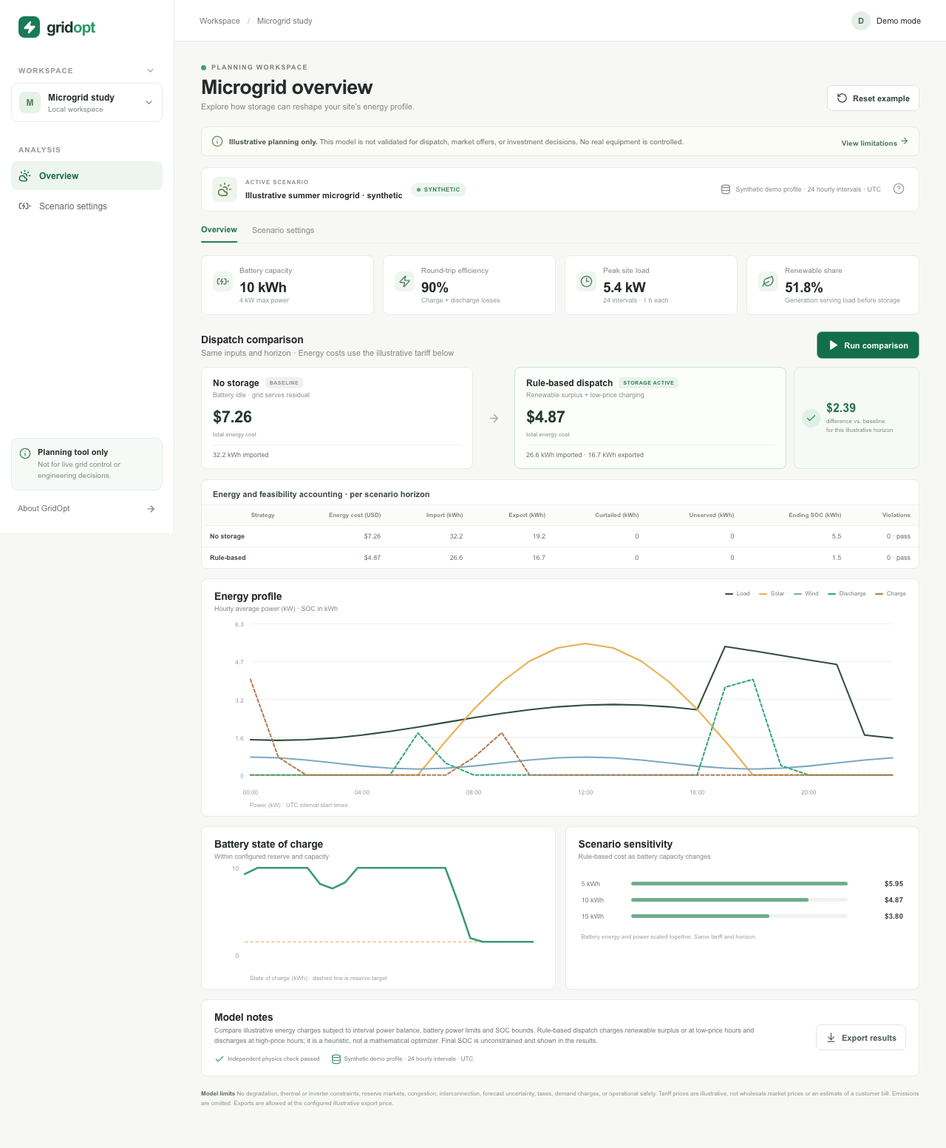
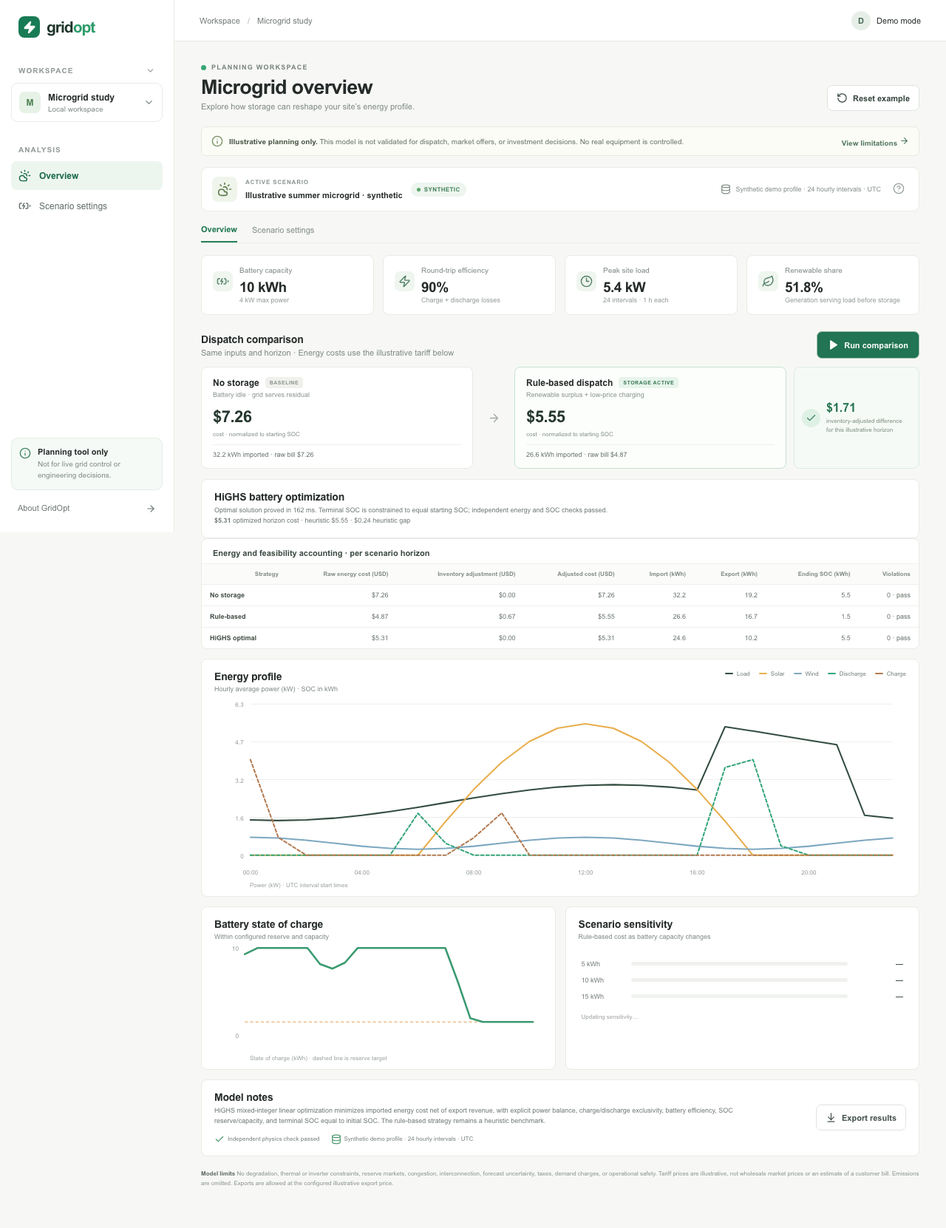
Add verified HiGHS dispatch optimization

diff --git a/src/main.tsx b/src/main.tsx
@@ -5,7 +5,8 @@ import './style.css';
 
 type Point = { timestamp:string; loadKW:number; solarKW:number; windKW:number; pricePerKWh:number };
 type Scenario = { name:string; intervalHours:number; batteryKWh:number; batteryKW:number; roundTripEfficiency:number; minSocFraction:number; initialSocFraction:number; exportAllowed:boolean; exportPrice:number; intervals:Point[]; provenance?:string };
-type Result = { scenario:Scenario; objective:string; strategies:Record<'baseline'|'ruleBased', { intervals:{ timestamp:string; loadKW:number; solarKW:number; windKW:number; chargeKW:number; dischargeKW:number; socKWh:number; importKW:number; exportKW:number; curtailmentKW:number; unmetKW:number; cost:number }[]; totalCost:number; inventoryAdjustment:number; adjustedCost:number; importedKWh:number; exportedKWh:number; curtailedKWh:number; unmetKWh:number; finalSocKWh:number }>; verified:boolean; tolerance:string };
+type Strategy = { intervals:{ timestamp:string; loadKW:number; solarKW:number; windKW:number; chargeKW:number; dischargeKW:number; socKWh:number; importKW:number; exportKW:number; curtailmentKW:number; unmetKW:number; cost:number }[]; totalCost:number; inventoryAdjustment:number; adjustedCost:number; importedKWh:number; exportedKWh:number; curtailedKWh:number; unmetKWh:number; finalSocKWh:number };
+type Result = { scenario:Scenario; objective:string; strategies:Record<'baseline'|'ruleBased',Strategy> & { optimized?:Strategy }; verified:boolean; tolerance:string; optimization?:{status:string;runtimeMs:number;verified:boolean} };
 const $ = (n:number) => new Intl.NumberFormat('en-US', { style:'currency', currency:'USD', maximumFractionDigits:2 }).format(n);
 const n1 = (n:number) => new Intl.NumberFormat('en-US', { maximumFractionDigits:1 }).format(n);
 
@@ -22,7 +23,7 @@ function App() {
   function scaleProfile(key:'load'|'solar'|'wind',value:number){const field={load:'loadKW',solar:'solarKW',wind:'windKW'}[key] as 'loadKW'|'solarKW'|'windKW';setScenario(s=>s?{...s,intervals:s.intervals.map((p,i)=>({...p,[field]:+(profileBase[i][field]*value/100).toFixed(3)}))}:s);setScales(s=>({...s,[key]:value}));setResult(null);}
   async function loadEia(){if(!scenario)return;setBusy(true);setError('');try{const r=await fetch('/api/data/eia',{method:'POST',headers:{'Content-Type':'application/json'},body:JSON.stringify({key:eiaKey||undefined,respondent:region,hours:scenario.intervals.length})});const data=await r.json();if(!r.ok)throw new Error(data.error||'EIA request failed');const peak=Math.max(...data.values);if(peak<=0)throw new Error('EIA returned no positive demand values.');const points=scenario.intervals.map((p,i)=>({...p,timestamp:data.timestamps[i],loadKW:+(data.values[i]/peak*Math.max(...scenario.intervals.map(x=>x.loadKW))).toFixed(3)}));change('intervalHours',1);change('intervals',points);change('name',`EIA ${region} normalized demand shape`);setProfileBase(points);setScales({load:100,solar:100,wind:100});setBuyTariff(points.reduce((a,p)=>a+p.pricePerKWh,0)/points.length);setSource(`${data.source} ${data.provenance}`);setResult(null);}catch(e){setError(`${e instanceof Error?e.message:'EIA request failed'} Current data remains loaded. Reset to the labeled synthetic example or retry.`);}finally{setBusy(false);}}
   async function upload(file?:File){if(!file||!scenario)return;setError('');if(file.size>2_000_000){setError('CSV must be smaller than 2 MB.');return;}try{const text=await file.text();const lines=text.trim().split(/\r?\n/);if(lines.length<2||lines.length>169)throw new Error('CSV must have a header and 1–168 data rows.');const headers=lines[0].split(',').map(x=>x.trim().toLowerCase());const required=['timestamp','load_kw','solar_kw','wind_kw','price_per_kwh'];if(required.some(k=>!headers.includes(k)))throw new Error(`CSV needs columns: ${required.join(', ')}.`);const indexes=required.map(k=>headers.indexOf(k));const pts=lines.slice(1).map((line,i)=>{const cols=line.split(',');if(cols.length!==headers.length)throw new Error(`Row ${i+2} has the wrong number of columns.`);const timestamp=cols[indexes[0]].trim();if(!/^\d{4}-\d\d-\d\dT\d\d:\d\d(?::\d\d(?:\.\d+)?)?(?:Z|[+-]\d\d:\d\d)$/.test(timestamp)||!Number.isFinite(Date.parse(timestamp)))throw new Error(`Row ${i+2} needs an ISO timestamp with timezone.`);const vals=indexes.slice(1).map(j=>Number(cols[j]));if(vals.some(v=>!Number.isFinite(v)||v<0))throw new Error(`Row ${i+2} has a negative or invalid numeric value.`);return {timestamp:new Date(timestamp).toISOString(),loadKW:vals[0],solarKW:vals[1],windKW:vals[2],pricePerKWh:vals[3]};});const delta=pts.length>1?Date.parse(pts[1].timestamp)-Date.parse(pts[0].timestamp):scenario.intervalHours*3600000;if(pts.some((p,i)=>i>0&&Date.parse(p.timestamp)-Date.parse(pts[i-1].timestamp)!==delta))throw new Error('Timestamps must be ordered and evenly spaced.');change('intervalHours',delta/3600000);change('intervals',pts);change('name',`CSV profile · ${file.name}`);setProfileBase(pts);setScales({load:100,solar:100,wind:100});setBuyTariff(pts.reduce((a,p)=>a+p.pricePerKWh,0)/pts.length);setSource(`User CSV · ${pts.length} intervals · timezone-aware timestamps · ${file.name}`);setResult(null);}catch(e){setError(e instanceof Error?e.message:'Could not read CSV.');}}
-  function exportResult(){if(!result)return;const payload={modelVersion:'1.0.0-rule-based',scenario:result.scenario,provenance:source,units:{power:'kW',energy:'kWh',interval:'hours',price:'USD/kWh',currency:'USD'},objective:result.objective,solver:'Transparent rule-based dispatch heuristic; no optimization solver',outputs:result.strategies,verification:{independentlyRecomputed:result.verified,tolerance:result.tolerance}};const link=document.createElement('a');link.href=URL.createObjectURL(new Blob([JSON.stringify(payload,null,2)],{type:'application/json'}));link.download='gridopt-scenario.json';link.click();URL.revokeObjectURL(link.href);}
+  function exportResult(){if(!result)return;const payload={modelVersion:'1.1.0-highs-milp',scenario:result.scenario,provenance:source,units:{power:'kW',energy:'kWh',interval:'hours',price:'USD/kWh',currency:'USD'},objective:result.objective,solver:'HiGHS mixed-integer linear optimizer plus transparent heuristic baseline',outputs:result.strategies,verification:{independentlyRecomputed:result.verified,tolerance:result.tolerance}};const link=document.createElement('a');link.href=URL.createObjectURL(new Blob([JSON.stringify(payload,null,2)],{type:'application/json'}));link.download='gridopt-scenario.json';link.click();URL.revokeObjectURL(link.href);}
   if(!scenario)return <main className="loading">Loading your example microgrid…</main>;
   const active=result?.strategies.ruleBased;
   return <div className="app-shell">
@@ -38,6 +39,7 @@ function App() {
         <section className="section-head"><div><h2>Dispatch comparison</h2><p>Same inputs and horizon · Energy costs use the illustrative tariff below</p></div><button className="btn btn-primary" onClick={()=>void run()} disabled={busy}><Play size={15} fill="currentColor"/>{busy?'Running…':'Run comparison'}</button></section>
         <div className="comparison"><StrategyCard title="No storage" tag="BASELINE" subtitle="Battery idle · grid serves residual" value={result?$(result.strategies.baseline.adjustedCost):'—'} unit="cost · normalized to starting SOC" detail={result?`${n1(result.strategies.baseline.importedKWh)} kWh imported · raw bill ${$(result.strategies.baseline.totalCost)}`:'Run comparison to see results'} active={false}/><div className="compare-arrow"><ArrowRight size={17}/></div><StrategyCard title="Rule-based dispatch" tag="STORAGE ACTIVE" subtitle="Renewable surplus + low-price charging" value={result?$(active!.adjustedCost):'—'} unit="cost · normalized to starting SOC" detail={result?`${n1(active!.importedKWh)} kWh imported · raw bill ${$(active!.totalCost)}`:'Charges at low-price hours; discharges at high-price hours'} active/>
           {result&&<div className="savings"><span className="savings-icon"><Check size={15}/></span><span><b>{$(result.strategies.baseline.adjustedCost-active!.adjustedCost)}</b><small>inventory-adjusted difference<br/>for this illustrative horizon</small></span></div>}</div>
+        <section className="detail-panel optimizer-summary"><div><h2>HiGHS battery optimization</h2><p>{result?.optimization?.status === 'Optimal' && result.strategies.optimized ? `Optimal solution proved in ${result.optimization.runtimeMs} ms. Terminal SOC is constrained to equal starting SOC; independent energy and SOC checks ${result.optimization.verified ? 'passed' : 'failed'}.` : result ? `No optimal schedule is shown. Solver status: ${result.optimization?.status ?? 'not available'}.` : 'The optimizer will solve charge/discharge and grid flow together with battery constraints.'}</p>{result?.strategies.optimized && <p><b>{$(result.strategies.optimized.adjustedCost)}</b> optimized horizon cost · heuristic {$(result.strategies.ruleBased.adjustedCost)} · {$(result.strategies.ruleBased.adjustedCost-result.strategies.optimized.adjustedCost)} heuristic gap</p>}</div></section>
         <Accounting result={result}/>
         <div className="chart-panel"><div className="panel-heading"><div><h2>Energy profile</h2><p>Hourly average power (kW) · SOC in kWh</p></div><div className="legend"><span><i className="leg-load"/> Load</span><span><i className="leg-solar"/> Solar</span><span><i className="leg-wind"/> Wind</span><span><i className="leg-batt"/> Discharge</span><span><i className="leg-charge"/> Charge</span></div></div><ProfileChart scenario={scenario} result={result}/></div>
         <div className="lower-grid"><div className="chart-panel small-panel"><div className="panel-heading"><div><h2>Battery state of charge</h2><p>Within configured reserve and capacity</p></div></div><SocChart scenario={scenario} result={result}/></div><div className="chart-panel small-panel"><div className="panel-heading"><div><h2>Scenario sensitivity</h2><p>Rule-based cost as battery capacity changes</p></div></div><Sensitivity scenario={scenario}/></div></div>
@@ -50,10 +52,10 @@ function App() {
 }
 function Metric({label,value,sub,icon}:{label:string;value:string;sub:string;icon:React.ReactNode}){return <article className="metric"><span className="metric-icon">{icon}</span><span className="metric-label">{label}</span><strong>{value}</strong><small>{sub}</small></article>}
 function StrategyCard({title,tag,subtitle,value,unit,detail,active}:{title:string;tag:string;subtitle:string;value:string;unit:string;detail:string;active:boolean}){return <article className={`strategy ${active?'strategy-active':''}`}><div className="strategy-top"><h3>{title}</h3><span className={active?'active-tag':'base-tag'}>{tag}</span></div><p>{subtitle}</p><strong className="strategy-value">{value}</strong><span className="strategy-unit">{unit}</span><div className="strategy-detail">{detail}</div></article>}
-function Accounting({result}:{result:Result|null}){return <div className="accounting-wrap"><table className="accounting"><caption>Energy and feasibility accounting · per scenario horizon</caption><thead><tr><th>Strategy</th><th>Raw energy cost (USD)</th><th>Inventory adjustment (USD)</th><th>Adjusted cost (USD)</th><th>Import (kWh)</th><th>Export (kWh)</th><th>Ending SOC (kWh)</th><th>Violations</th></tr></thead><tbody>{result?(['baseline','ruleBased'] as const).map((key,i)=>{const x=result.strategies[key];return <tr key={key}><th scope="row">{i?'Rule-based':'No storage'}</th><td>{$(x.totalCost)}</td><td>{$(x.inventoryAdjustment)}</td><td>{$(x.adjustedCost)}</td><td>{n1(x.importedKWh)}</td><td>{n1(x.exportedKWh)}</td><td>{n1(x.finalSocKWh)}</td><td>{result.verified?'0 · pass':'—'}</td></tr>}):<tr><td colSpan={8}>Run comparison to calculate accounting and constraint checks.</td></tr>}</tbody></table></div>}
+function Accounting({result}:{result:Result|null}){return <div className="accounting-wrap"><table className="accounting"><caption>Energy and feasibility accounting · per scenario horizon</caption><thead><tr><th>Strategy</th><th>Raw energy cost (USD)</th><th>Inventory adjustment (USD)</th><th>Adjusted cost (USD)</th><th>Import (kWh)</th><th>Export (kWh)</th><th>Ending SOC (kWh)</th><th>Violations</th></tr></thead><tbody>{result?(['baseline','ruleBased','optimized'] as const).filter(key=>key!=='optimized'||result.strategies.optimized).map(key=>{const x=key==='optimized'?result.strategies.optimized!:result.strategies[key];return <tr key={key}><th scope="row">{key==='baseline'?'No storage':key==='ruleBased'?'Rule-based':'HiGHS optimal'}</th><td>{$(x.totalCost)}</td><td>{$(x.inventoryAdjustment)}</td><td>{$(x.adjustedCost)}</td><td>{n1(x.importedKWh)}</td><td>{n1(x.exportedKWh)}</td><td>{n1(x.finalSocKWh)}</td><td>{key==='optimized'?(result.optimization?.verified?'0 · pass':'—'):(result.verified?'0 · pass':'—')}</td></tr>}):<tr><td colSpan={8}>Run comparison to calculate accounting and constraint checks.</td></tr>}</tbody></table></div>}
 function ProfileChart({scenario,result}:{scenario:Scenario;result:Result|null}){const W=920,H=250,L=48,R=18,T=15,B=34,max=Math.max(1,...scenario.intervals.flatMap(p=>[p.loadKW,p.solarKW,p.windKW]),...(result?.strategies.ruleBased.intervals.map(p=>p.chargeKW+p.dischargeKW)||[]))*1.15;const x=(i:number)=>L+i*(W-L-R)/Math.max(1,scenario.intervals.length-1),y=(v:number)=>T+(max-v)*(H-T-B)/max;const line=(key:'loadKW'|'solarKW'|'windKW')=>scenario.intervals.map((p,i)=>`${i?'L':'M'} ${x(i)} ${y(p[key])}`).join(' ');const batteryLine=(key:'chargeKW'|'dischargeKW')=>result?.strategies.ruleBased.intervals.map((p,i)=>`${i?'L':'M'} ${x(i)} ${y(p[key])}`).join(' ');return <div className="svg-wrap"><svg viewBox={`0 0 ${W} ${H}`} role="img" aria-label="Interval load, solar, wind, charge, and discharge power line chart"><title>Interval power profile</title>{[0,.25,.5,.75,1].map((v,i)=><g key={i}><line x1={L} x2={W-R} y1={T+v*(H-T-B)} y2={T+v*(H-T-B)} className="gridline"/><text x={L-9} y={T+v*(H-T-B)+4} textAnchor="end" className="axis-label">{n1(max*(1-v))}</text></g>)}<path d={line('loadKW')} className="line-load"/><path d={line('solarKW')} className="line-solar"/><path d={line('windKW')} className="line-wind"/>{result&&<><path d={batteryLine('dischargeKW')} className="line-batt"/><path d={batteryLine('chargeKW')} className="line-charge"/></>}{scenario.intervals.filter((_,i)=>i%Math.max(1,Math.floor(scenario.intervals.length/6))===0).map(p=>{const idx=scenario.intervals.indexOf(p);const date=new Date(p.timestamp);return <text key={p.timestamp} x={x(idx)} y={H-8} textAnchor="middle" className="axis-label">{date.getUTCHours().toString().padStart(2,'0')}:{date.getUTCMinutes().toString().padStart(2,'0')}</text>})}</svg><div className="chart-foot">Power (kW) · UTC interval start times</div></div>}
 function SocChart({scenario,result}:{scenario:Scenario;result:Result|null}){const rows=result?.strategies.ruleBased.intervals||[],W=430,H=148,L=40,R=12,T=10,B=24,max=Math.max(1,scenario.batteryKWh),x=(i:number)=>L+i*(W-L-R)/Math.max(1,scenario.intervals.length-1),y=(v:number)=>T+(max-v)*(H-T-B)/max;return <div className="svg-wrap"><svg viewBox={`0 0 ${W} ${H}`} role="img" aria-label="Battery state of charge over time"><title>Battery state of charge</title><line x1={L} x2={W-R} y1={y(scenario.batteryKWh*scenario.minSocFraction)} y2={y(scenario.batteryKWh*scenario.minSocFraction)} className="reserve-line"/><text x={L-8} y={y(max)+4} textAnchor="end" className="axis-label">{n1(max)}</text><text x={L-8} y={y(0)+4} textAnchor="end" className="axis-label">0</text>{rows.length>0&&<path d={rows.map((p,i)=>`${i?'L':'M'} ${x(i)} ${y(p.socKWh)}`).join(' ')} className="soc-line"/>}</svg><div className="chart-foot">State of charge (kWh) · dashed line is reserve target</div></div>}
-function Sensitivity({scenario}:{scenario:Scenario}){const [vals,setVals]=useState<number[]|null>(null);useEffect(()=>{let cancelled=false;const factors=[.5,1,1.5];Promise.all(factors.map(async f=>{const s={...scenario,batteryKWh:scenario.batteryKWh*f,batteryKW:scenario.batteryKW*f};try{const r=await fetch('/api/run',{method:'POST',headers:{'Content-Type':'application/json'},body:JSON.stringify(s)});const data=await r.json();return r.ok?data.strategies.ruleBased.adjustedCost:null;}catch{return null;}})).then(v=>{if(!cancelled)setVals(v);});return()=>{cancelled=true;};},[scenario]);return <div className="sensitivity">{[.5,1,1.5].map((f,i)=><div className="sens-row" key={f}><span>{n1(scenario.batteryKWh*f)} kWh</span><div className="sens-track"><i style={{width:`${vals?.[i]===null||vals?.[i]===undefined?0:Math.max(7,Math.min(100,vals[i]/Math.max(1,...(vals.filter((v):v is number=>v!==null)))*100))}%`}}/></div><b>{vals?.[i]===null||vals?.[i]===undefined?'—':$(vals[i])}</b></div>)}<small>Battery energy and power scaled together. Inventory-adjusted cost; same tariff and horizon.</small></div>}
+function Sensitivity({scenario}:{scenario:Scenario}){const [vals,setVals]=useState<number[]|null>(null);const [error,setError]=useState(false);useEffect(()=>{const controller=new AbortController();const timer=window.setTimeout(()=>{fetch('/api/sensitivity',{method:'POST',headers:{'Content-Type':'application/json'},body:JSON.stringify({scenario}),signal:controller.signal}).then(async r=>{const d=await r.json();if(!r.ok)throw new Error(d.error||'Sensitivity unavailable');setVals(d.costs);setError(false);}).catch(e=>{if(e.name!=='AbortError')setError(true);});},350);return()=>{window.clearTimeout(timer);controller.abort();};},[scenario]);return <div className="sensitivity">{[.5,1,1.5].map((f,i)=><div className="sens-row" key={f}><span>{n1(scenario.batteryKWh*f)} kWh</span><div className="sens-track"><i style={{width:`${vals?.[i]===null||vals?.[i]===undefined?0:Math.max(7,Math.min(100,vals[i]/Math.max(1,...(vals||[]))*100))}%`}}/></div><b>{vals?.[i]===null||vals?.[i]===undefined?'—':$(vals[i])}</b></div>)}<small role="status">{error?'Sensitivity unavailable. Change inputs or retry.':vals?'Debounced rule-based cost; energy and power scale together.':'Updating sensitivity…'}</small></div>}
 function Settings({scenario,change,scales,scaleProfile,buyTariff,setBuyTariff,applyTariff,eiaKey,setEiaKey,region,setRegion,upload,loadEia,busy,source}:{scenario:Scenario;change:<K extends keyof Scenario>(key:K,value:Scenario[K])=>void;scales:{load:number;solar:number;wind:number};scaleProfile:(key:'load'|'solar'|'wind',value:number)=>void;buyTariff:number;setBuyTariff:(v:number)=>void;applyTariff:()=>void;eiaKey:string;setEiaKey:(v:string)=>void;region:string;setRegion:(v:string)=>void;upload:(f?:File)=>void;loadEia:()=>void;busy:boolean;source:string}) {
   return <div className="settings-grid">
     <section className="settings-card">

diff --git a/server/index.ts b/server/index.ts
@@ -2,6 +2,7 @@ import express from 'express';
 import path from 'node:path';
 import { fileURLToPath } from 'node:url';
 import { runScenario, validateScenario } from './model.js';
+import { optimizeDispatch } from './optimizer.js';
 
 export const app = express();
 const port = Number(process.env.PORT || 3000);
@@ -33,12 +34,51 @@ app.use(express.json({ limit: '256kb' }));
 
 app.get('/api/health', (_req, res) => res.json({ ok: true }));
 app.get('/api/scenarios/demo', (_req, res) => res.json(demoScenario()));
-app.post('/api/run', (req, res) => {
+app.post('/api/run', async (req, res) => {
   if (active >= 4) { res.status(503).json({ error: 'The optimizer is busy. Try again shortly.' }); return; }
   active++;
-  try { res.json(runScenario(validateScenario(req.body))); }
+  try {
+    const scenario = validateScenario(req.body);
+    const result = runScenario(scenario);
+    const solved = await optimizeDispatch(scenario);
+    if (solved.status === 'Optimal') {
+      const rows = solved.intervals;
+      const initialSocKWh = scenario.batteryKWh * scenario.initialSocFraction;
+      const independent = rows.every((row, i) => {
+        const p = scenario.intervals[i]!;
+        const before = i ? rows[i - 1]!.socKWh : initialSocKWh;
+        const eta = Math.sqrt(scenario.roundTripEfficiency);
+        const soc = before + (row.chargeKW * eta - row.dischargeKW / eta) * scenario.intervalHours;
+        const balance = row.importKW - row.exportKW - row.curtailmentKW + p.solarKW + p.windKW + row.dischargeKW - row.chargeKW - p.loadKW;
+        const values = [row.chargeKW, row.dischargeKW, row.importKW, row.exportKW, row.curtailmentKW, row.socKWh];
+        return values.every(Number.isFinite) && row.chargeKW >= -1e-6 && row.chargeKW <= scenario.batteryKW + 1e-6 && row.dischargeKW >= -1e-6 && row.dischargeKW <= scenario.batteryKW + 1e-6 && row.importKW >= -1e-6 && row.exportKW >= -1e-6 && row.curtailmentKW >= -1e-6 && (!scenario.exportAllowed ? row.exportKW < 1e-6 : row.exportKW <= Math.max(0, p.solarKW + p.windKW + scenario.batteryKW - p.loadKW) + 1e-6) && Math.abs(soc - row.socKWh) < 1e-6 && Math.abs(balance) < 1e-6 && row.socKWh >= scenario.batteryKWh * scenario.minSocFraction - 1e-6 && row.socKWh <= scenario.batteryKWh + 1e-6 && row.chargeKW * row.dischargeKW < 1e-8 && row.importKW * row.exportKW < 1e-8;
+      }) && Math.abs(rows.at(-1)!.socKWh - initialSocKWh) < 1e-6;
+      if (!independent) throw new Error('Optimizer solution failed independent energy, SOC, or terminal checks.');
+      const totalCost = rows.reduce((sum, row) => sum + row.cost, 0);
+      result.strategies.optimized = {
+        intervals: rows, totalCost, inventoryAdjustment: 0, adjustedCost: totalCost,
+        importedKWh: rows.reduce((sum, row) => sum + row.importKW * scenario.intervalHours, 0),
+        exportedKWh: rows.reduce((sum, row) => sum + row.exportKW * scenario.intervalHours, 0),
+        curtailedKWh: rows.reduce((sum, row) => sum + row.curtailmentKW * scenario.intervalHours, 0),
+        unmetKWh: 0, finalSocKWh: rows.at(-1)!.socKWh,
+      };
+      result.optimization = { status: solved.status, runtimeMs: solved.runtimeMs, verified: true };
+    } else result.optimization = { status: solved.status, runtimeMs: solved.runtimeMs, verified: false };
+    result.objective = 'HiGHS mixed-integer linear optimization minimizes imported energy cost net of export revenue, with explicit power balance, charge/discharge exclusivity, battery efficiency, SOC reserve/capacity, and terminal SOC equal to initial SOC. The rule-based strategy remains a heuristic benchmark.';
+    res.json(result);
+  }
   catch (e) { res.status(400).json({ error: e instanceof Error ? e.message : 'Invalid scenario.' }); }
   finally { active--; }
+});
+app.post('/api/sensitivity', (req, res) => {
+  try {
+    const scenario = validateScenario(req.body?.scenario);
+    const costs = [.5, 1, 1.5].map((factor) => {
+      const candidate = validateScenario({ ...scenario, batteryKWh: scenario.batteryKWh * factor, batteryKW: scenario.batteryKW * factor });
+      return runScenario(candidate).strategies.ruleBased.adjustedCost;
+    });
+    res.json({ factors: [.5, 1, 1.5], costs });
+  } catch (e) { res.status(400).json({ error: e instanceof Error ? e.message : 'Invalid scenario.' }); }
 });
 app.post('/api/data/eia', async (req, res) => {
   const { key = process.env.EIA_API_KEY, respondent, hours } = req.body ?? {};

diff --git a/server/optimizer.ts b/server/optimizer.ts
@@ -1,0 +1,54 @@
+import loadHighs from 'highs';
+import type { IntervalResult, Scenario } from './model.js';
+
+type HighsRuntime = {
+  solve(problem: string, options: { output_flag: boolean; time_limit: number; mip_rel_gap: number }): {
+    Status: string;
+    Columns: Record<string, { Primal: number }>;
+  };
+};
+const loadRuntime = loadHighs as unknown as () => Promise<HighsRuntime>;
+let highsPromise: Promise<HighsRuntime> | undefined;
+const highs = () => (highsPromise ??= loadRuntime());
+
+export async function optimizeDispatch(s: Scenario) {
+  const started = performance.now();
+  const solver = await highs();
+  const eta = Math.sqrt(s.roundTripEfficiency), dt = s.intervalHours;
+  const initial = s.batteryKWh * s.initialSocFraction;
+  const minSoc = s.batteryKWh * s.minSocFraction;
+  const rows: string[] = [], costs: [string, number][] = [], bounds: string[] = [], binaries: string[] = [];
+  const terms = (pairs: [string, number][]) => pairs.filter(([, c]) => Math.abs(c) > 1e-12).map(([v, c]) => `${c < 0 ? '-' : '+'} ${Math.abs(c)} ${v}`).join(' ');
+  for (let i = 0; i < s.intervals.length; i++) {
+    const p = s.intervals[i]!, gen = p.solarKW + p.windKW;
+    const impMax = Math.max(1, p.loadKW + s.batteryKW);
+    const expMax = Math.max(0, gen + s.batteryKW);
+    const charge = `charge_${i}`, discharge = `discharge_${i}`, imp = `import_${i}`, exp = `export_${i}`;
+    const curtail = `curtail_${i}`, chargeMode = `charge_mode_${i}`, gridMode = `grid_mode_${i}`;
+    costs.push([imp, p.pricePerKWh * dt], [exp, -s.exportPrice * dt]);
+    rows.push(`balance_${i}: ${terms([[imp, 1], [exp, -1], [discharge, 1], [charge, -1], [curtail, -1]])} = ${p.loadKW - gen}`);
+    rows.push(`charge_limit_${i}: ${terms([[charge, 1], [chargeMode, -s.batteryKW]])} <= 0`);
+    rows.push(`discharge_limit_${i}: ${terms([[discharge, 1], [chargeMode, s.batteryKW]])} <= ${s.batteryKW}`);
+    rows.push(`import_mode_${i}: ${terms([[imp, 1], [gridMode, -impMax]])} <= 0`);
+    rows.push(`export_mode_${i}: ${terms([[exp, 1], [gridMode, expMax]])} <= ${expMax}`);
+    rows.push(`soc_step_${i}: ${terms([[`soc_${i + 1}`, 1], [`soc_${i}`, -1], [charge, -eta * dt], [discharge, dt / eta]])} = 0`);
+    bounds.push(`${charge} <= ${s.batteryKW}`, `${discharge} <= ${s.batteryKW}`, `${imp} <= ${impMax}`, `${exp} <= ${s.exportAllowed ? expMax : 0}`, `${curtail} <= ${Math.max(1, gen + s.batteryKW)}`, `${chargeMode} <= 1`, `${gridMode} <= 1`);
+    binaries.push(chargeMode, gridMode);
+  }
+  for (let i = 0; i <= s.intervals.length; i++) {
+    bounds.push(`soc_${i} >= ${minSoc}`, `soc_${i} <= ${s.batteryKWh}`);
+  }
+  rows.push(`initial_soc: soc_0 = ${initial}`, `terminal_soc: soc_${s.intervals.length} = ${initial}`);
+  const problem = `Minimize\n total_cost: ${terms(costs) || '0 charge_0'}\nSubject To\n ${rows.join('\n ')}\nBounds\n ${bounds.join('\n ')}\nBinary\n ${binaries.join(' ')}\nEnd`;
+  const solved = solver.solve(problem, { output_flag: false, time_limit: 8, mip_rel_gap: 0 });
+  if (solved.Status !== 'Optimal') {
+    return { status: solved.Status, intervals: [] as IntervalResult[], runtimeMs: Math.round(performance.now() - started) };
+  }
+  const value = (name: string) => solved.Columns[name]?.Primal ?? 0;
+  const intervals = s.intervals.map((p, i) => {
+    const chargeKW = value(`charge_${i}`), dischargeKW = value(`discharge_${i}`);
+    const importKW = value(`import_${i}`), exportKW = value(`export_${i}`), curtailmentKW = value(`curtail_${i}`);
+    return { timestamp: p.timestamp, loadKW: p.loadKW, solarKW: p.solarKW, windKW: p.windKW, chargeKW, dischargeKW, socKWh: value(`soc_${i + 1}`), importKW, exportKW, curtailmentKW, unmetKW: 0, cost: (importKW * p.pricePerKWh - exportKW * s.exportPrice) * dt };
+  });
+  return { status: solved.Status, intervals, runtimeMs: Math.round(performance.now() - started) };
+}

diff --git a/server/optimizer.test.ts b/server/optimizer.test.ts
@@ -1,0 +1,33 @@
+import test from 'node:test';
+import assert from 'node:assert/strict';
+import { optimizeDispatch } from './optimizer.js';
+import { validateScenario, type Scenario } from './model.js';
+
+const makeScenario = (overrides: Partial<Scenario> = {}): Scenario => ({
+  name: 'optimizer fixture', intervalHours: 1, batteryKWh: 1, batteryKW: 1,
+  roundTripEfficiency: 1, minSocFraction: 0, initialSocFraction: .5,
+  exportAllowed: false, exportPrice: 0,
+  intervals: [
+    { timestamp: '2025-01-01T00:00:00Z', loadKW: 0, solarKW: 1, windKW: 0, pricePerKWh: .1 },
+    { timestamp: '2025-01-01T01:00:00Z', loadKW: 1, solarKW: 0, windKW: 0, pricePerKWh: .5 },
+  ], ...overrides,
+});
+
+test('MILP proves a feasible minimum-cost schedule with terminal SOC restored', async () => {
+  const scenario = validateScenario(makeScenario());
+  const result = await optimizeDispatch(scenario);
+  assert.equal(result.status, 'Optimal');
+  assert.equal(result.intervals.length, 2);
+  assert.ok(result.intervals[0]!.chargeKW > .49);
+  assert.ok(result.intervals[1]!.dischargeKW > .49);
+  assert.ok(Math.abs(result.intervals[1]!.socKWh - .5) < 1e-6);
+  assert.ok(result.intervals.every((row) => !(row.chargeKW > 1e-6 && row.dischargeKW > 1e-6)));
+});
+
+test('zero-capacity and zero-load case solves without fabricated dispatch', async () => {
+  const s = validateScenario(makeScenario({ batteryKWh: 0, batteryKW: 0, initialSocFraction: 0, intervals: [{ timestamp: '2025-01-01T00:00:00Z', loadKW: 0, solarKW: 0, windKW: 0, pricePerKWh: 0 }] }));
+  const result = await optimizeDispatch(s);
+  assert.equal(result.status, 'Optimal');
+  assert.equal(result.intervals[0]!.chargeKW, 0);
+  assert.equal(result.intervals[0]!.dischargeKW, 0);
+});

diff --git a/server/model.ts b/server/model.ts
@@ -26,6 +26,17 @@ export type IntervalResult = {
   dischargeKW: number; socKWh: number; importKW: number; exportKW: number; curtailmentKW: number;
   unmetKW: number; cost: number;
 };
+export type StrategySummary = {
+  intervals: IntervalResult[]; totalCost: number; inventoryAdjustment: number;
+  adjustedCost: number; importedKWh: number; exportedKWh: number;
+  curtailedKWh: number; unmetKWh: number; finalSocKWh: number;
+};
+export type RunResult = {
+  scenario: Scenario; objective: string;
+  strategies: { baseline: StrategySummary; ruleBased: StrategySummary; optimized?: StrategySummary };
+  verified: boolean; tolerance: string;
+  optimization?: { status: string; runtimeMs: number; verified: boolean };
+};
 
 export function validateScenario(raw: unknown): Scenario {
   const scenario = scenarioSchema.parse(raw);
@@ -70,7 +81,7 @@ function dispatch(s: Scenario, strategy: Strategy): IntervalResult[] {
   });
 }
 
-export function runScenario(s: Scenario) {
+export function runScenario(s: Scenario): RunResult {
   const baseline = dispatch(s, 'baseline');
   const ruleBased = dispatch(s, 'ruleBased');
   const check = (rows: IntervalResult[]) => rows.every((r, i) => {

diff --git a/server/api.test.ts b/server/api.test.ts
@@ -22,7 +22,14 @@ test('health, seeded demo, and scenario API work without credentials', async () 
   assert.match(String(demo.name), /synthetic/i);
   const response = await fetch(`${base}/api/run`, { method: 'POST', headers: { 'Content-Type': 'application/json' }, body: JSON.stringify(demo) });
   assert.equal(response.status, 200);
-  assert.equal((await response.json() as { verified:boolean }).verified, true);
+  const result = await response.json() as { verified:boolean; strategies:Record<string,unknown>; optimization:{status:string;verified:boolean} };
+  assert.equal(result.verified, true);
+  assert.equal(result.optimization.status, 'Optimal');
+  assert.equal(result.optimization.verified, true);
+  assert.ok(result.strategies.optimized);
+  const sensitivity = await fetch(`${base}/api/sensitivity`, { method: 'POST', headers: { 'Content-Type': 'application/json' }, body: JSON.stringify({ scenario: demo }) });
+  assert.equal(sensitivity.status, 200);
+  assert.equal((await sensitivity.json() as { costs:number[] }).costs.length, 3);
 });
 
 test('invalid scenarios and missing EIA credentials fail explicitly', async () => {

diff --git a/README.md b/README.md
@@ -1,6 +1,6 @@
 # GridOpt
 
-GridOpt is an educational microgrid planning demonstrator. It compares a no-storage baseline with a transparent rule-based battery dispatch heuristic using the same hourly or subhourly scenario. It does not control grid equipment, submit market offers, or provide engineering or investment recommendations.
+GridOpt is an educational microgrid planning demonstrator. It compares a no-storage baseline, a transparent heuristic, and a constrained battery optimizer using the same hourly or subhourly scenario. It does not control grid equipment, submit market offers, or provide engineering or investment recommendations.
 
 ![GridOpt dashboard screenshot](docs/screenshot.png)
 
@@ -20,11 +20,11 @@ Copy `.env.example` to `.env` only if you want to set an EIA key or deployment v
 ## Architecture and model
 
 - `src/` is a React/TypeScript responsive single-page dashboard. Charts are accessible inline SVG with text labels and units. Scenario inputs remain in browser memory; there is no account, database, or data retention.
-- `server/index.ts` serves `/api/health`, `/api/scenarios/demo`, `/api/run`, and `/api/data/eia`, applies request limits and security headers, and serves the built client.
-- `server/model.ts` validates the scenario, computes the baseline and heuristic dispatch, and independently recalculates interval balance and SOC feasibility before returning results.
-- The optimizer is intentionally a deterministic rule-based heuristic, not a mathematical optimizer or solver. It charges renewable surplus first, grid-charges at the lowest 35th-percentile tariff threshold, and discharges at the highest 75th-percentile threshold when there is a deficit. Threshold ties are inclusive. The horizon input is treated as known; this is not a forecast. It may miss a lower-cost schedule.
-- Solver and license: GridOpt does not use a third-party solver; the rule-based method is project code, so there is no solver license to install.
-- The initial SOC is set as a share of energy capacity and must meet the reserve. Ending inventory is normalized to initial SOC at the final interval tariff; depleted inventory is charged at the AC energy needed to restore it, while surplus inventory is credited at the AC energy released. The raw energy bill, adjustment, adjusted comparison, and final SOC are all shown. This terminal-price proxy ignores degradation and market settlement details.
+- `server/index.ts` serves `/api/health`, `/api/scenarios/demo`, `/api/run`, `/api/sensitivity`, and `/api/data/eia`, applies request limits and security headers, and serves the built client.
+- `server/model.ts` validates the scenario and computes the baseline/heuristic; `server/optimizer.ts` builds and solves the bounded HiGHS mixed-integer model. Both results are checked against independently recomputed interval balance and SOC feasibility.
+- GridOpt compares a deterministic rule-based heuristic with a genuine HiGHS mixed-integer linear program (MILP). The MILP chooses time-indexed charge/discharge, import/export, curtailment, and state-of-charge decisions; binary modes prevent simultaneous battery charge/discharge and grid import/export. It minimizes import cost net of export revenue under interval balance, efficiency, battery power/energy, reserve, and terminal-SOC-equals-initial constraints. HiGHS must report `Optimal` before the app labels a result optimal; other solver states are shown without a fabricated schedule. The known horizon is not a forecast.
+- Solver and license: `highs` runs HiGHS locally as WebAssembly; HiGHS is MIT licensed. The existing rule-based dispatch remains as a benchmark.
+- The initial SOC is set as a share of energy capacity and must meet the reserve. The optimizer constrains terminal SOC to equal initial SOC, so its raw energy objective needs no inventory adjustment. The heuristic allows a different ending SOC and is normalized to initial inventory at the final tariff as an illustrative accounting comparison. That proxy ignores degradation and market settlement details.
 
 ### Units and constraints
 
@@ -36,7 +36,7 @@ Copy `.env.example` to `.env` only if you want to set an EIA key or deployment v
 | Buy price and export price | USD/kWh | User/demo tariff values; illustrative unless supplied by the user |
 | Round-trip efficiency | fraction | Split symmetrically as square-root charge and discharge efficiencies |
 
-For interval duration `dt`, SOC updates as `SOC[t+1] = SOC[t] + charge[t] * sqrt(RTE) * dt - discharge[t] / sqrt(RTE) * dt`. Charge/discharge power, SOC, reserve, and interval balance are checked. The heuristic never charges and discharges simultaneously. Grid imports cover residual load, so unmet load is always zero in this model. With exports disabled, excess renewable power is curtailed; otherwise it is exported at the configured price. Comparison normalizes terminal SOC to initial SOC using the final input tariff and split round-trip efficiency, as an accounting proxy rather than an operating constraint.
+For interval duration `dt`, SOC updates as `SOC[t+1] = SOC[t] + charge[t] * sqrt(RTE) * dt - discharge[t] / sqrt(RTE) * dt`. Charge/discharge power, SOC, reserve, and interval balance are checked. The heuristic does not charge and discharge simultaneously. The optimizer enforces exclusivity using binary variables and constrains terminal SOC to equal initial SOC, so its raw horizon objective requires no inventory adjustment. The heuristic is separately normalized to initial inventory at the final tariff for a fairer but illustrative comparison. Grid imports cover residual load, so unmet load is zero. With exports disabled, excess renewable power is curtailed; otherwise it is exported at the configured price. The MILP is an optimization under simplified perfect-foresight inputs, not a real-time dispatch recommendation.
 
 The API accepts at most 168 intervals. Power capacities are nonnegative and bounded; input values must be finite. Battery energy and power capacity are separate fields and units.
 
@@ -81,7 +81,7 @@ npx playwright install chromium
 npm run e2e
 ```
 
-The unit fixture `server/model.test.ts` includes a one-hour, 2 kW import at $0.25/kWh, with expected energy charge **$0.50** and 2 kWh import. Numerical tolerances for independent interval balance and SOC recurrence are `1e-7` kW/kWh. Tests also cover charge/discharge efficiency, quarter-hour intervals, DST offset changes, zero generation/capacity, bounds, and invalid or uneven input. API tests cover health, demo-without-credentials, invalid requests, and missing EIA credentials. Browser smoke covers the example, settings edit, comparison, and result export.
+The unit fixture `server/model.test.ts` includes a one-hour, 2 kW import at $0.25/kWh, with expected energy charge **$0.50** and 2 kWh import. `server/optimizer.test.ts` checks an analytically simple charge/discharge schedule, terminal inventory restoration, exclusivity, zero capacity, and zero-load feasibility; API tests require an `Optimal` status and independently verified schedule. Numerical tolerances for independent interval balance and SOC recurrence are `1e-7` kW/kWh. Tests also cover charge/discharge efficiency, quarter-hour intervals, DST offset changes, zero generation/capacity, bounds, and invalid or uneven input. API tests cover health, demo-without-credentials, invalid requests, and missing EIA credentials. Browser smoke covers the example, settings edit, comparison, and result export.
 
 ## Deploy
 
@@ -91,8 +91,8 @@ The unit fixture `server/model.test.ts` includes a one-hour, 2 kW import at $0.2
 
 - [x] Seeded synthetic example works without credentials.
 - [x] Battery settings, renewable/load scaling, CSV input, and optional EIA demand-shape import.
-- [x] Baseline and rule-based comparison with interpretable power/SOC charts and objective notes.
+- [x] Baseline, rule-based heuristic, and HiGHS MILP comparison with interpretable power/SOC charts and objective notes.
 - [x] Independent energy balance, SOC, power, reserve, and capacity verification before display.
 - [x] Sensitivity view, source attribution, units, and JSON export.
 - [x] API, CI, tests, documentation, responsive styling, and deployment blueprint.
-- [ ] Live deployment: not performed; publish only after an operator connects the blueprint and verifies its URL.
+- [ ] Live deployment: not performed; an authorized Render account must connect the blueprint and configure optional EIA credentials.
